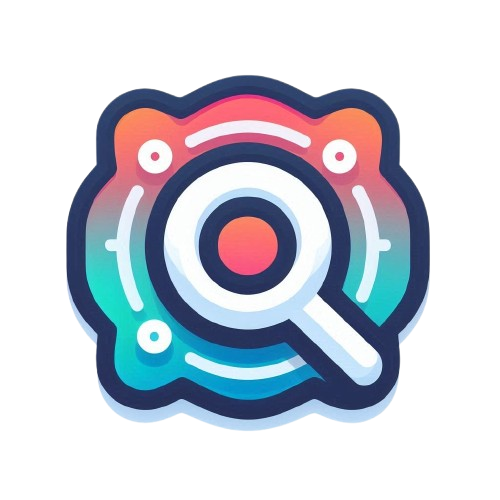
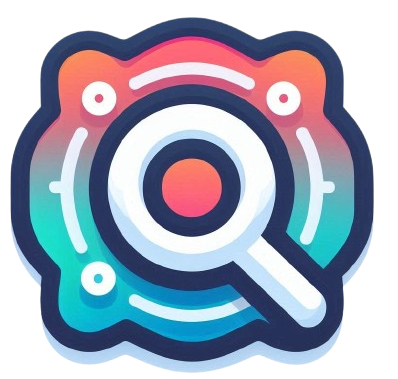
offer page image updated

diff --git a/src/app/components/Offer.jsx b/src/app/components/Offer.jsx
@@ -7,53 +7,53 @@ const Offer = () => {
              {/* <div className='grid grid-cols-1 lg:grid-cols-4 gap-5  mx-auto'> */}
 
             {/* 1st */}
-            <div className="card card-compact w-72 md:w-80 lg:w-96 custom_1080:w-[16rem] custom_1440:w-[20rem] custom_1600:w-80 h-full mx-auto text-center lg:text-start ">
-                <figure className="w-full h-32 flex justify-center items-center">
+            <div className="card card-compact items-stretch md:items-center flex-row md:flex-col w-80 md:w-80 lg:w-96 custom_1080:w-[16rem] custom_1440:w-[20rem] custom_1600:w-80 h-full mx-auto text-center lg:text-start gap-5 md:gap-0 ">
+                <figure className="w-96 md:w-full md:h-32 flex justify-center items-center">
                     {/* <Image src="https://www.gstatic.com/youtube/img/promos/growth/premium_lp2_small_feature_Ad-free_light_tablet_600x444.webp" width="100" height="100" alt="" className="object-contain" /> */}
                     {/* <Image src="https://www.yourdigitalweb.com/wp-content/uploads/2021/10/seo-gif-resized.gif" width="200" height="200" alt="" className="object-contain" /> */}
-                    <Image src="/offer_1.png" width="200" height="200" alt="" className="object-contain" />
+                    <Image src="/offer_1.png" width="500" height="500" alt="" className="object-cover md:object-contain h-16 md:h-24 rounded-xl" />
                 </figure>
-                <div className="card-body text-center">
+                <div className="card-body text-start md:text-center ">
                     <p className='text-base leading-[1.38rem]'>Estar en los primeros resultados de búsqueda aumenta la exposición de la empresa</p>
                     
                 </div>
             </div>
 
             {/* 2nd */}
-            <div className="card card-compact w-72 md:w-80 lg:w-96 custom_1080:w-[16rem] custom_1440:w-[20rem] custom_1600:w-80 h-full mx-auto text-center lg:text-start">
-                <figure className="w-full h-32 flex justify-center items-center">
+            <div className="card card-compact items-stretch md:items-center flex-row md:flex-col w-80 md:w-80 lg:w-96 custom_1080:w-[16rem] custom_1440:w-[20rem] custom_1600:w-80 h-full mx-auto text-center lg:text-start gap-5 md:gap-0">
+                <figure className="w-full md:h-32 flex justify-center items-center">
                     {/* <Image src="https://www.gstatic.com/youtube/img/promos/growth/premium_lp2_small_feature_DownloadMultiple_light_tablet_600x508.webp" width="100" height="100" alt="" className="object-contain" /> */}
                     {/* <Image src="https://i.pinimg.com/originals/66/de/ef/66deef6155183f7d2c78b9cd4255786f.gif" width="200" height="200" alt="" className="object-contain" /> */}
-                    <Image src="/offer_2.png" width="200" height="200" alt="" className="object-contain" />
+                    <Image src="/offer_2.png" width="200" height="200" alt="" className="object-contain h-20 md:h-28" />
                 </figure>
-                <div className="card-body text-center">
-                    <p className='text-base leading-[1.38rem]'>Atrae visitantes interesados en los productos o servicios ofrecidos</p>
+                <div className="card-body text-start md:text-center">
+                    <p className='text-base leading-[1.38rem] '>Atrae visitantes interesados en los productos o servicios ofrecidos</p>
                     
                 </div>
             </div>
 
             {/* 3rd */}
-            <div className="card card-compact w-72 md:w-80 lg:w-96 custom_1080:w-[16rem] custom_1440:w-[20rem] custom_1600:w-80 h-full mx-auto text-center lg:text-start">
-                <figure className="w-full h-32 flex justify-center items-center">
+            <div className="card card-compact items-stretch md:items-center flex-row md:flex-col w-80 md:w-80 lg:w-96 custom_1080:w-[16rem] custom_1440:w-[20rem] custom_1600:w-80 h-full mx-auto text-center lg:text-start gap-5 md:gap-0">
+                <figure className="w-full md:h-32 flex justify-center items-center">
                     {/* <Image src="https://www.gstatic.com/youtube/img/promos/growth/premium_lp2_small_feature_PictureInPicture_light_tablet_600x764.webp" width="100" height="100" alt="" className="object-contain" /> */}
                     {/* <Image src="https://indeedseo.com/blog/wp-content/uploads/2023/01/Optimize-Your-Landing-Pages.gif" width="200" height="200" alt="" className="object-contain" /> */}
-                    <Image src="/offer_3.png" width="200" height="200" alt="" className="object-contain" />
+                    <Image src="/offer_3.png" width="200" height="200" alt="" className="object-contain h-20 md:h-28" />
                 </figure>
-                <div className="card-body text-center">
-                    <p className='text-base leading-[1.38rem]'>Los usuarios tienden a confiar más en los sitios bien posicionados</p>
+                <div className="card-body text-start md:text-center">
+                    <p className='text-base leading-[1.38rem] '>Los usuarios tienden a confiar más en los sitios bien posicionados</p>
                     
                 </div>
             </div>
 
             {/* 4th */}
-            <div className="card card-compact w-72 md:w-80 lg:w-96 custom_1080:w-[16rem] custom_1440:w-[20rem] custom_1600:w-80 h-full mx-auto text-center lg:text-start">
-                <figure className="w-full h-32 flex justify-center items-center">
+            <div className="card card-compact items-stretch md:items-center flex-row md:flex-col w-80 md:w-80 lg:w-96 custom_1080:w-[16rem] custom_1440:w-[20rem] custom_1600:w-80 h-full mx-auto text-center lg:text-start gap-5 md:gap-0">
+                <figure className="w-full md:h-32 flex justify-center items-center">
                     {/* <Image src="https://www.gstatic.com/youtube/img/promos/growth/premium_lp2_small_feature_UnlimitedMusic_light_tablet_600x505.webp" width="100" height="100" alt="" className="object-contain" /> */}
                     {/* <Image src="https://sunilpratapsingh.com/wp-content/uploads/2023/01/sunil-pratap-singh-seo-consultant.gif" width="200" height="200" alt="" className="object-contain" /> */}
-                    <Image src="/offer_4.png" width="200" height="200" alt="" className="object-contain" />
+                    <Image src="/offer_4.png" width="200" height="200" alt="" className="object-contain h-20 md:h-28" />
                 </figure>
-                <div className="card-body text-center">
-                    <p className='text-base leading-[1.38rem]'> Permite evaluar y ajustar estrategias para maximizar el retorno de inversión</p>
+                <div className="card-body text-start md:text-center">
+                    <p className='text-base leading-[1.38rem] '> Permite evaluar y ajustar estrategias para maximizar el retorno de inversión</p>
                     
                 </div>
             </div>
